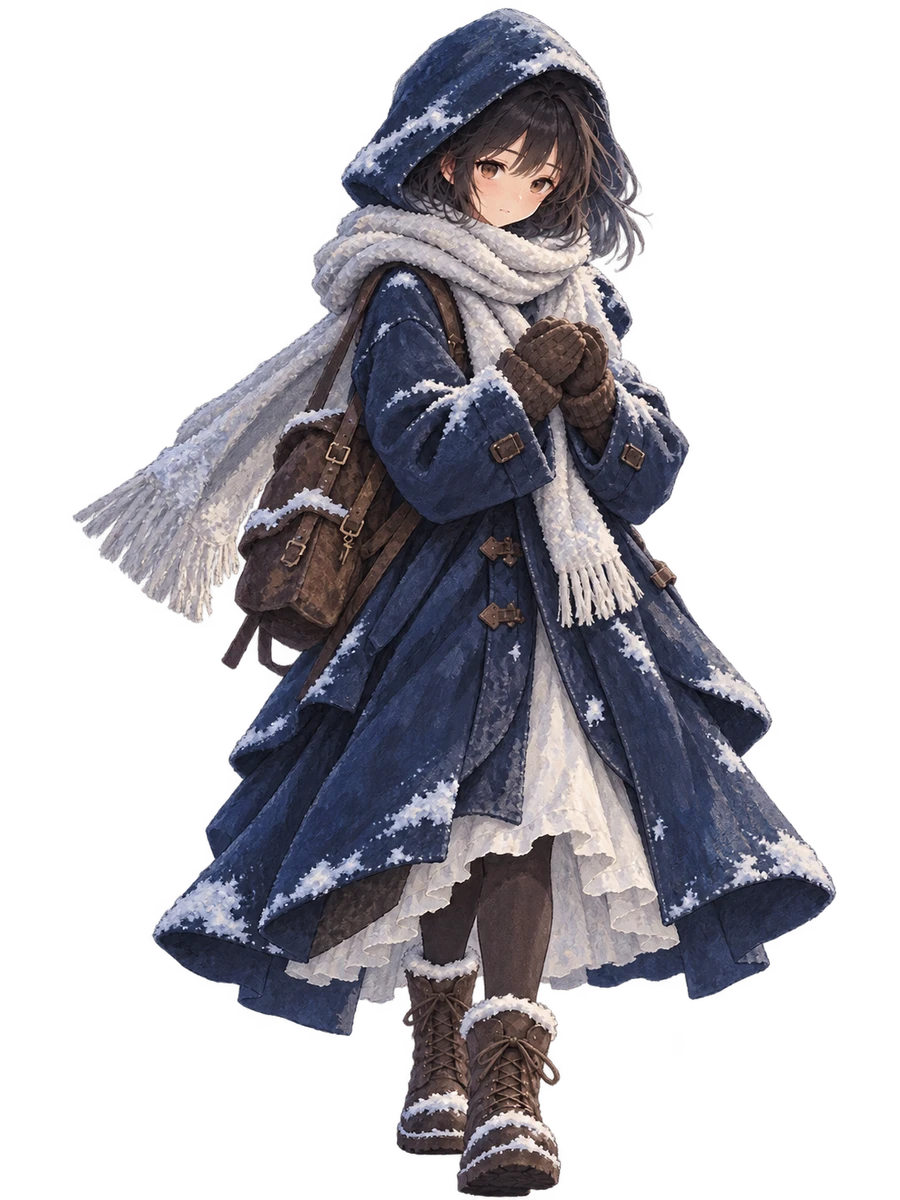
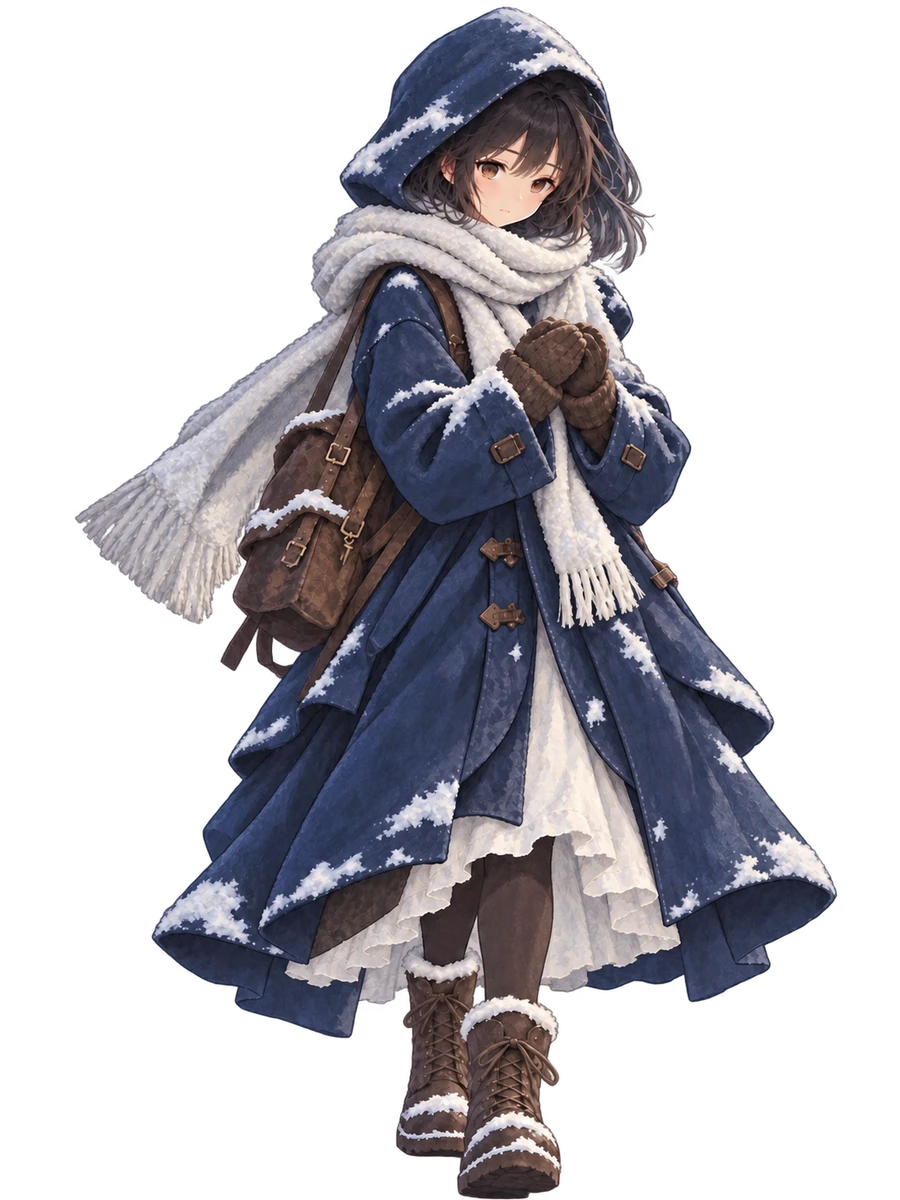
Reduce painted character noise and stabilize high quality rendering

diff --git a/assets/kienaide-view.js b/assets/kienaide-view.js
@@ -27,7 +27,7 @@ function create(base){
  const loaded=Promise.all(pending).then(results=>results.every(Boolean));
  const ready=n=>{const i=imgs[n];return !!(i&&i.complete&&i.naturalWidth>0)};
  // A fixed paper grain helps separately generated paintings sit inside the same film.
- // It is deterministic (no digital sparkle); only the tile offset drifts slightly.
+ // Keep it fixed: stepping the tile made fine painted edges appear to crawl.
  const grain=document.createElement('canvas');grain.width=grain.height=64;
  const grainCtx=grain.getContext('2d'),grainData=grainCtx.createImageData(64,64);let grainSeed=90421;
  for(let i=0;i<grainData.data.length;i+=4){grainSeed=(grainSeed*1664525+1013904223)>>>0;const v=112+(grainSeed>>>24)%96;grainData.data[i]=v;grainData.data[i+1]=v+3;grainData.data[i+2]=v+8;grainData.data[i+3]=34}
@@ -43,7 +43,7 @@ function create(base){
  const view={W:360,scale:1,ox:0,oy:0,dpr:1,cssW:0,cssH:0};
  function resize(canvas){
   const box=canvas.getBoundingClientRect(),cssW=Math.max(1,box.width),cssH=Math.max(1,box.height);
-  const dpr=Math.min(2,root.devicePixelRatio||1)*perf.quality;
+  const dpr=Math.max(1,Math.min(2,root.devicePixelRatio||1)*perf.quality);
   // Follow the actual portrait aspect ratio. The previous 300px floor letterboxed tall phones,
   // leaving large black bands above and below the painting.
   const W=Math.max(220,Math.min(480,cssW/cssH*H));
@@ -51,6 +51,7 @@ function create(base){
   if(cssW===view.cssW&&cssH===view.cssH&&dpr===view.dpr)return view;
   Object.assign(view,{W,scale,dpr,cssW,cssH,ox:(cssW-W*scale)/2,oy:(cssH-H*scale)/2});
   canvas.width=Math.round(cssW*dpr);canvas.height=Math.round(cssH*dpr);
+  const ctx=canvas.getContext('2d');ctx.imageSmoothingEnabled=true;ctx.imageSmoothingQuality='high';
   return view;
  }
  function toWorld(canvas,clientX,clientY){const b=canvas.getBoundingClientRect();return {x:(clientX-b.left-view.ox)/view.scale,y:(clientY-b.top-view.oy)/view.scale}}
@@ -140,7 +141,7 @@ function create(base){
   if(light>0){const a=flameAnchor(),flicker=reduced?1:.96+Math.sin(t*7.3)*.025;ctx.save();ctx.globalCompositeOperation='screen';const warm=ctx.createRadialGradient(a.x,a.y,2,a.x,a.y,70+light*65);warm.addColorStop(0,'rgba(255,173,90,'+(.055*light*flicker)+')');warm.addColorStop(1,'rgba(255,150,70,0)');ctx.fillStyle=warm;ctx.fillRect(a.x-150,a.y-150,300,300);ctx.restore()}
  }
  function paperGrain(ctx,t,reduced){
-  const W=view.W;ctx.save();ctx.globalCompositeOperation='soft-light';ctx.globalAlpha=.15;const p=ctx.createPattern(grain,'repeat'),d=reduced?0:Math.floor(t*3)%64;ctx.translate(d,d*.5);ctx.fillStyle=p;ctx.fillRect(-64,-64,W+128,H+128);ctx.restore();
+  const W=view.W;ctx.save();ctx.globalCompositeOperation='soft-light';ctx.globalAlpha=.06;const p=ctx.createPattern(grain,'repeat');ctx.fillStyle=p;ctx.fillRect(0,0,W,H);ctx.restore();
  }
  // ---------- traveller ----------
  // The traveller is the emotional focal point, not a small marker inside a background plate.

diff --git a/docs/KIENAIDE-QUALITY-AUDIT.md b/docs/KIENAIDE-QUALITY-AUDIT.md
@@ -79,3 +79,22 @@ node scripts/qa-production.mjs
 ## 制作方針
 
 現行の絵本／アニメ映画調と縦持ちスマホの構成を保持する。別ジャンル比較は既存20本を候補のまま残し、今回の修正を理由に量産を再開しない。次の大きな制作判断はX03の人による評価を根拠に行う。
+
+## 画像ノイズの追加監査（PR #67 後、2026-10-19）
+
+開始点は main `0ec2610`。上の28項目は前回の監査として保持し、今回の差分は次の8項目に絞る。「全項目」はこの作品の現行完成基準と今回確認した問題の一覧を指し、未実施の実機・人の評価まで完了を意味しない。
+
+| ID | 調査・ブラッシュアップ | 処置・確認方法 |
+| --- | --- | --- |
+| N01 | 通常歩行の布・雪の細かいガサつき | 画像生成の補修で細かなノイズを減らした `clean-v1/hero-walk.png` を採用。元の顔・構図・地面の位置を比較し、旧原画は保持 |
+| N02 | かばう姿勢との仕上げの差 | 同じ補修方針で `clean-v1/hero-shield.png` を採用。2枚だけを選択して再ビルドし、ほかの原画は描き直さない |
+| N03 | 透過端の色と縮小の混同 | 透過画像のRGBだけで判断せず、紺／灰の不透明背景に合成して比較。原画の青・赤の一部はalpha=1/255であり、画像ビューアで強く見えた色をそのまま公開画面の不透明な縁と断定しない |
+| N04 | Canvasの縮小補間 | リサイズによるコンテキスト初期化後、毎回 `imageSmoothingEnabled=true` と `imageSmoothingQuality=high` を再設定。端末による実際のフィルター実装差は残る |
+| N05 | 負荷低減時にCSSピクセル未満へ劣化 | DPRの下限を1にする。Retinaは2→1まで調整できるが、1倍画面で0.5倍の描画を引き伸ばさない。FPSゲートは下げない |
+| N06 | 後加工の粒が動くちらつき | 紙の粒を静止させ、合成濃度を0.15→0.06へ抑制。吹雪・火の粉など意味のあるVFXは維持 |
+| N07 | 再生成で原画に戻る・検証が失われる | build元とmanifestに補修版を明示。旧14原画を保持し、新2原画・依頼文を保存。画像比較テストをCIへ組み込む |
+| N08 | 絵だけ直して操作・性能を壊す | 76単体テスト、48画像のデコード、輪郭／細部比較、両サイズ・全章・5結末のブラウザQA、音・入力・セーブ・分岐・FPS・公開版を回帰確認 |
+
+画像比較では輪郭IoUが歩行0.9837、かばう0.9816。細部の高周波輝度差分は旧版比0.707／0.780（小さいほど細かな変動が少ない）。これはノイズだけを分離した知覚指標ではなく、画風・顔・姿勢の目視確認を置き換えない。runtimeの2画像は合計551,108→390,462 bytes。顔・髪・布が少し滑らかになるため、今後の他姿勢の補修も比較して選び、一括ぼかしや全素材の機械的置換はしない。
+
+証拠は `node scripts/qa-kienaide-image-noise.mjs` の `image-noise-report.json`、`hero-{walk,shield}-noise-before-after.png`（左から紺背景の旧／新、灰背景の旧／新）、通常の全章／結末スクリーンショット。透明部分を黒表示するビューアの見た目だけで「縁のノイズが消えた」と判定しない。X01〜X03は引き続き外部確認が必要。

diff --git a/assets/kienaide/paint/src/clean-v1/README.md b/assets/kienaide/paint/src/clean-v1/README.md
@@ -1,0 +1,17 @@
+# Kienaide — noise cleanup v1
+
+Built-in image generation edits, 2026-10-19. Inputs: matching `../repaint-v2/hero-walk.png` and `hero-shield.png`. Originals retained. Selected PNGs are project masters; `scripts/art/kienaide-paint.mjs` makes runtime WebP. Only these two high-exposure poses change, not the art bible or remaining character states.
+
+## Prompts
+
+hero-walk:
+
+> Use case: identity-preserve. Edit target: supplied transparent full-body game sprite. Create a cleanup-only version for the same game: reduce harsh tiny jagged pixel speckling and crunchy high-frequency texture on scarf, coat snow and silhouette; keep broad subtle gouache brushwork and painted snow, no plastic smoothness. Preserve EXACT face, expression, pose, silhouette, clothing, colors, hand placement, feet position, framing and proportions. No redesign, no new props, no flame or warm light, no text, no background or floor shadow. Genuinely transparent PNG. Keep same portrait 3:4 canvas and full body placement. Clean antialiased natural painted edges, no colored fringe or white halo.
+
+hero-shield:
+
+> Use case: identity-preserve. Supplied image is the EDIT TARGET, existing full-body transparent game sprite. Cleanup ONLY: soften crunchy tiny jagged speckles in fabric, snow and silhouette while preserving expressive broad gouache brushwork. Keep exact face, eyes, expression, pose, mittens, scarf, silhouette, costume, feet ground line, proportions, colors and 3:4 framing. Do not restyle or redesign. No flame, orange glow, text, new props, background, floor shadow. Genuinely transparent PNG, carefully antialiased fine hair and scarf fringe, no colored halo. Reduce noise, not the painted detail.
+
+## Acceptance
+
+Compare navy and grey opaque composites, not RGB hidden under near-zero alpha. Run `node scripts/qa-kienaide-image-noise.mjs`; inspect resulting before/after sheets and live gameplay. Silhouette IoU >0.98; interior high-frequency ratio between 0.3 and 0.9 is a coarse regression gate, not proof of perceptual quality or exact identity. Eye and fabric details are slightly smoother; automated image metrics do not establish whether players prefer this version.
